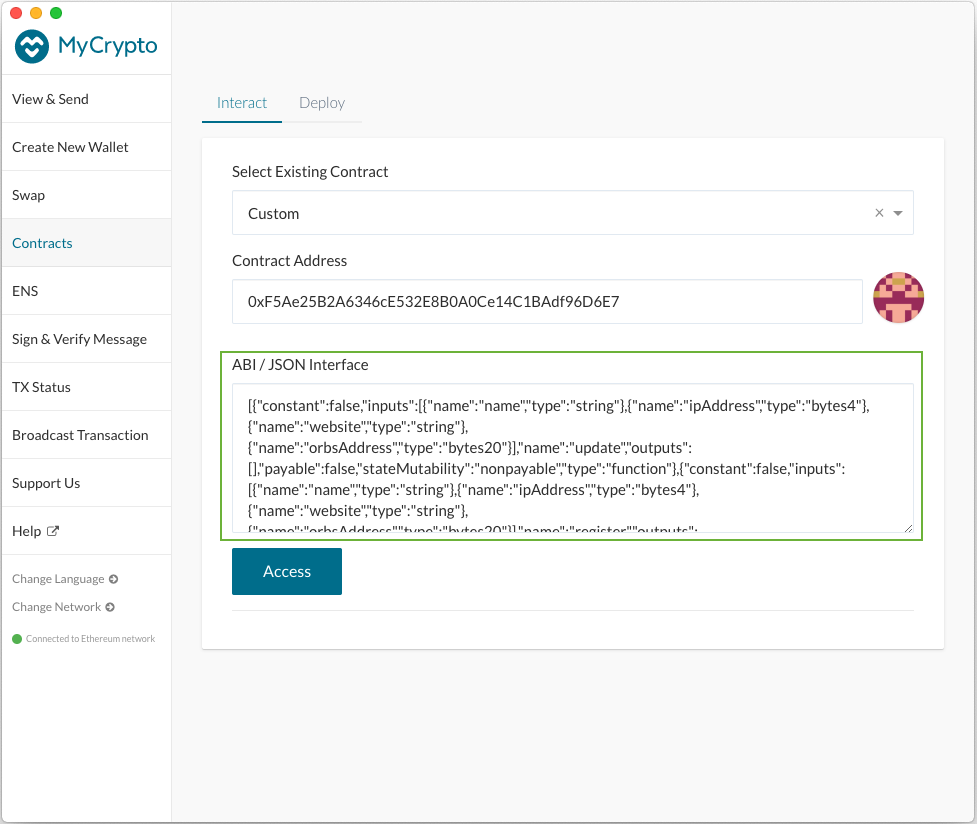
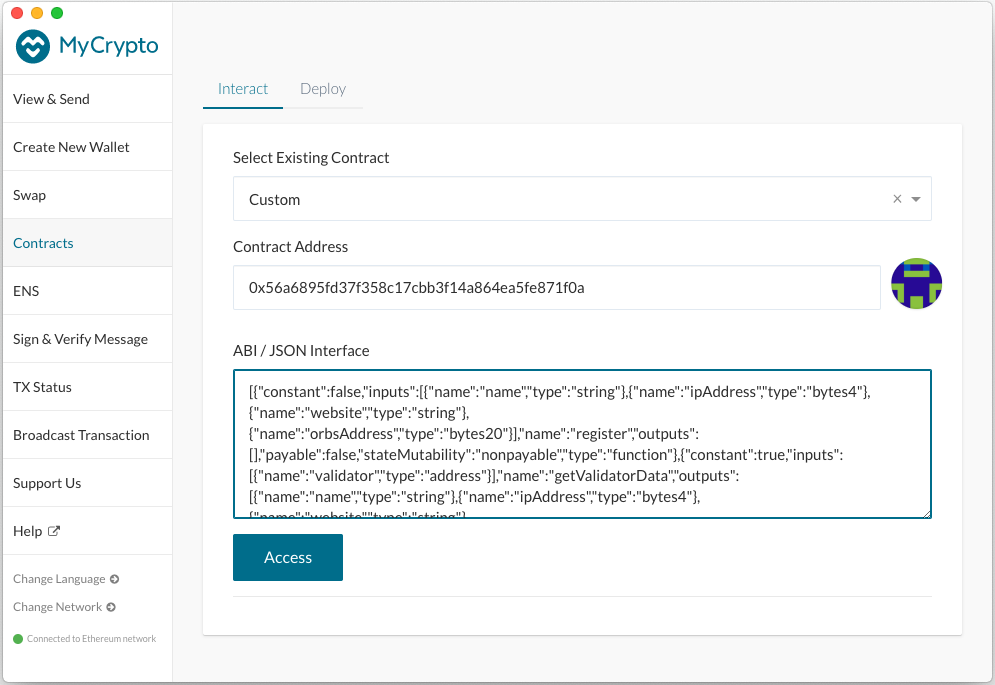
contract address

diff --git a/voting/ethereum/instructions/validator_registration.md b/voting/ethereum/instructions/validator_registration.md
@@ -33,7 +33,7 @@ In order to register a Validator with OrbsValidatorsRegistry contract follow the
 
 1. Select an existing custom contact amd enter the `OrbsValidatorsRegistry` contract address. 
    
-    **OrbsValidatorsRegistry Contract Address**: `0xF5Ae25B2A6346cE532E8B0A0Ce14C1BAdf96D6E7`
+    **OrbsValidatorsRegistry Contract Address**: `0x56a6895fd37f358c17cbb3f14a864ea5fe871f0a`
   
     The contract address and ABI are also available on [Etherscan][2].
 
@@ -110,8 +110,7 @@ With sufficient block confirmations.
 
 1. Review your registration data by calling getValidatorData() with your Ethereum address.
 
-[2]: https://etherscan.io/address/0xF5Ae25B2A6346cE532E8B0A0Ce14C1BAdf96D6E7#code
-[3]: 0xF5Ae25B2A6346cE532E8B0A0Ce14C1BAdf96D6E7
+[2]: https://etherscan.io/address/0x56a6895fd37f358c17cbb3f14a864ea5fe871f0a#code
 
 ##### Notes
 * The IP Address and Orbs public address must be unique among the different Validators. An attempt to register a Validator with an IP address or Orbs address identical to another registered Validator, will fail the registration.
